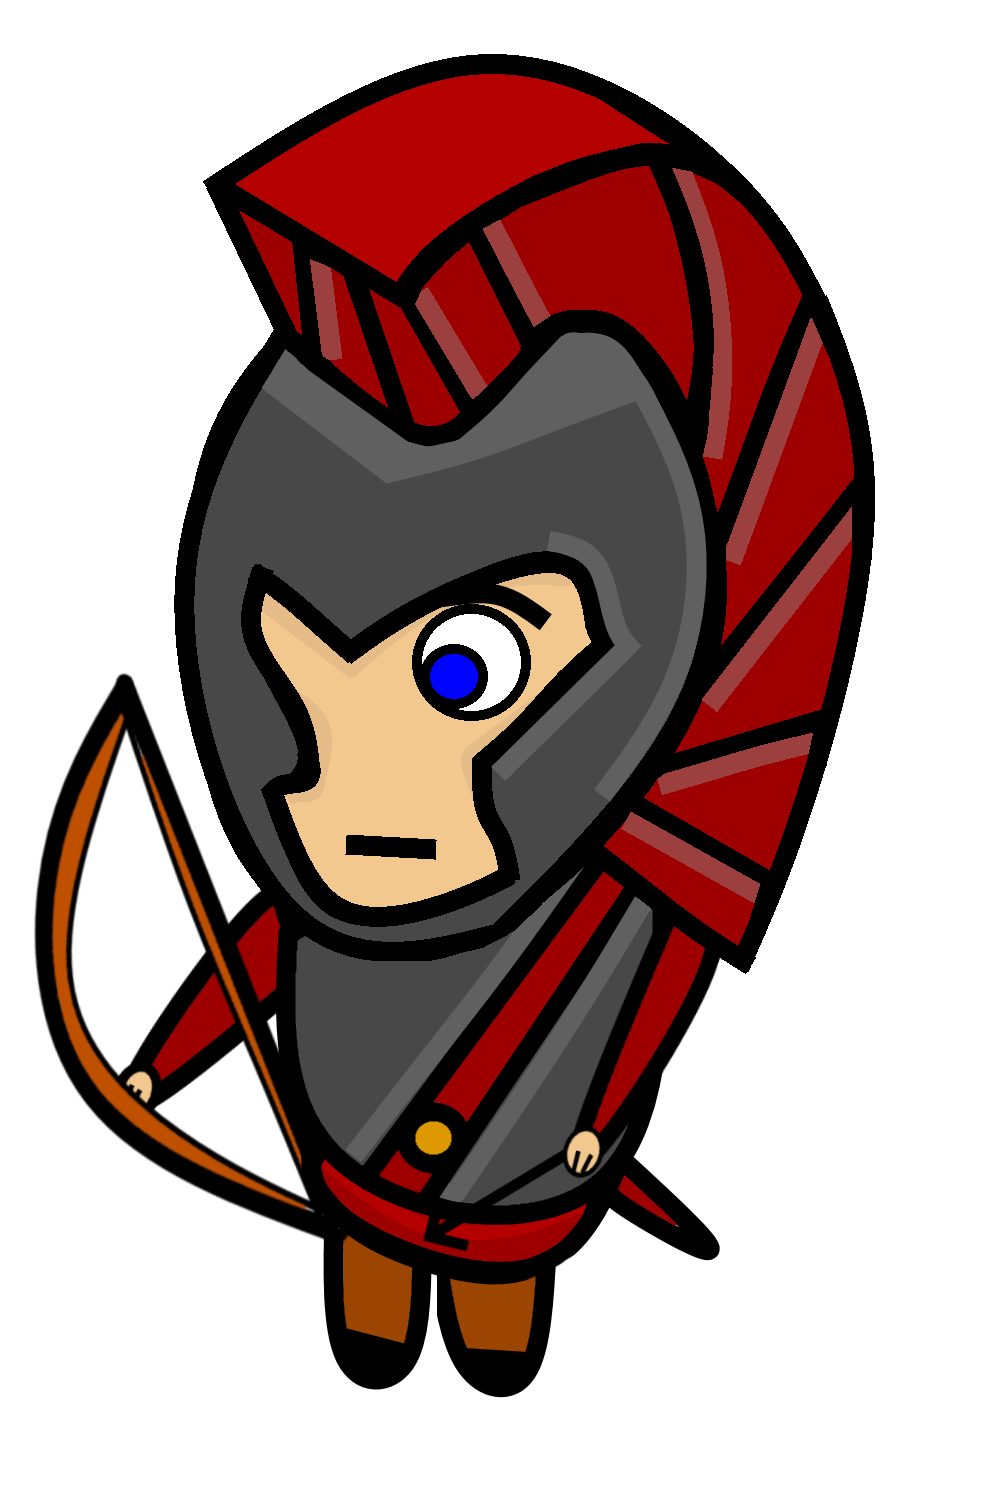
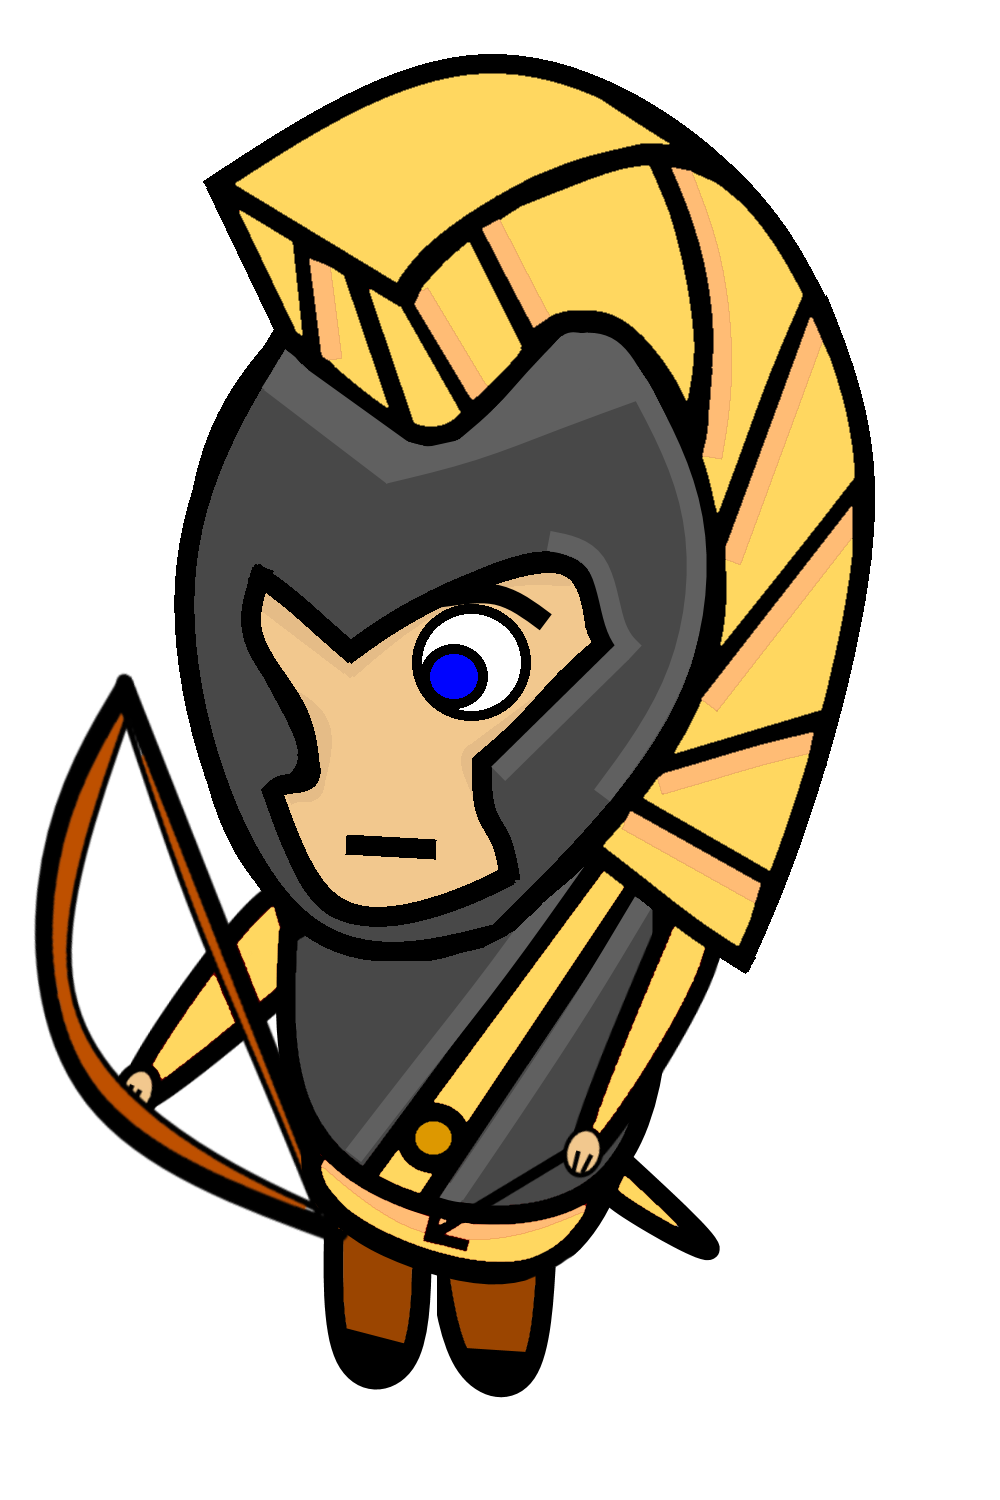
added support for yellow archer

diff --git a/IdanEngine/IdanEngine/Screen/GameScreen.cs b/IdanEngine/IdanEngine/Screen/GameScreen.cs
@@ -14,8 +14,7 @@ namespace CastleBridge {
         private Player Player;
         private Camera Camera;
         private Map Map;
-        private int generateXpTimer;
-
+        private int GenerateXpTimer;
 
         public GameScreen(Viewport viewPort) : base(viewPort) {
             Init(viewPort);
@@ -31,11 +30,11 @@ namespace CastleBridge {
 
         private void GenerateXp() {
             
-            if(generateXpTimer < 1000) {
-                generateXpTimer++;
+            if(GenerateXpTimer < 1000) {
+                GenerateXpTimer++;
             }
             else {
-                generateXpTimer = 0;
+                GenerateXpTimer = 0;
                 Player.CurrentCharacter.AddXp(1);
                 HUD.AddPopup(new Popup("+1xp", HUD.GetPlayerLevelBar().GetRectangle().Left + 3, HUD.GetPlayerLevelBar().GetRectangle().Top, Color.White, Color.Green), false);
                 HUD.SetPlayerLevel(1);
@@ -105,7 +104,7 @@ namespace CastleBridge {
         private void CheckLoot() {
 
             if (Keyboard.GetState().IsKeyDown(Keys.E) && Player.GetState() != PlayerState.Loot) {
-
+            
                 for(int i = 0; i < Map.WorldEntities.Count; i++) {
 
                     MapEntity currentEntity = Map.WorldEntities [i];
